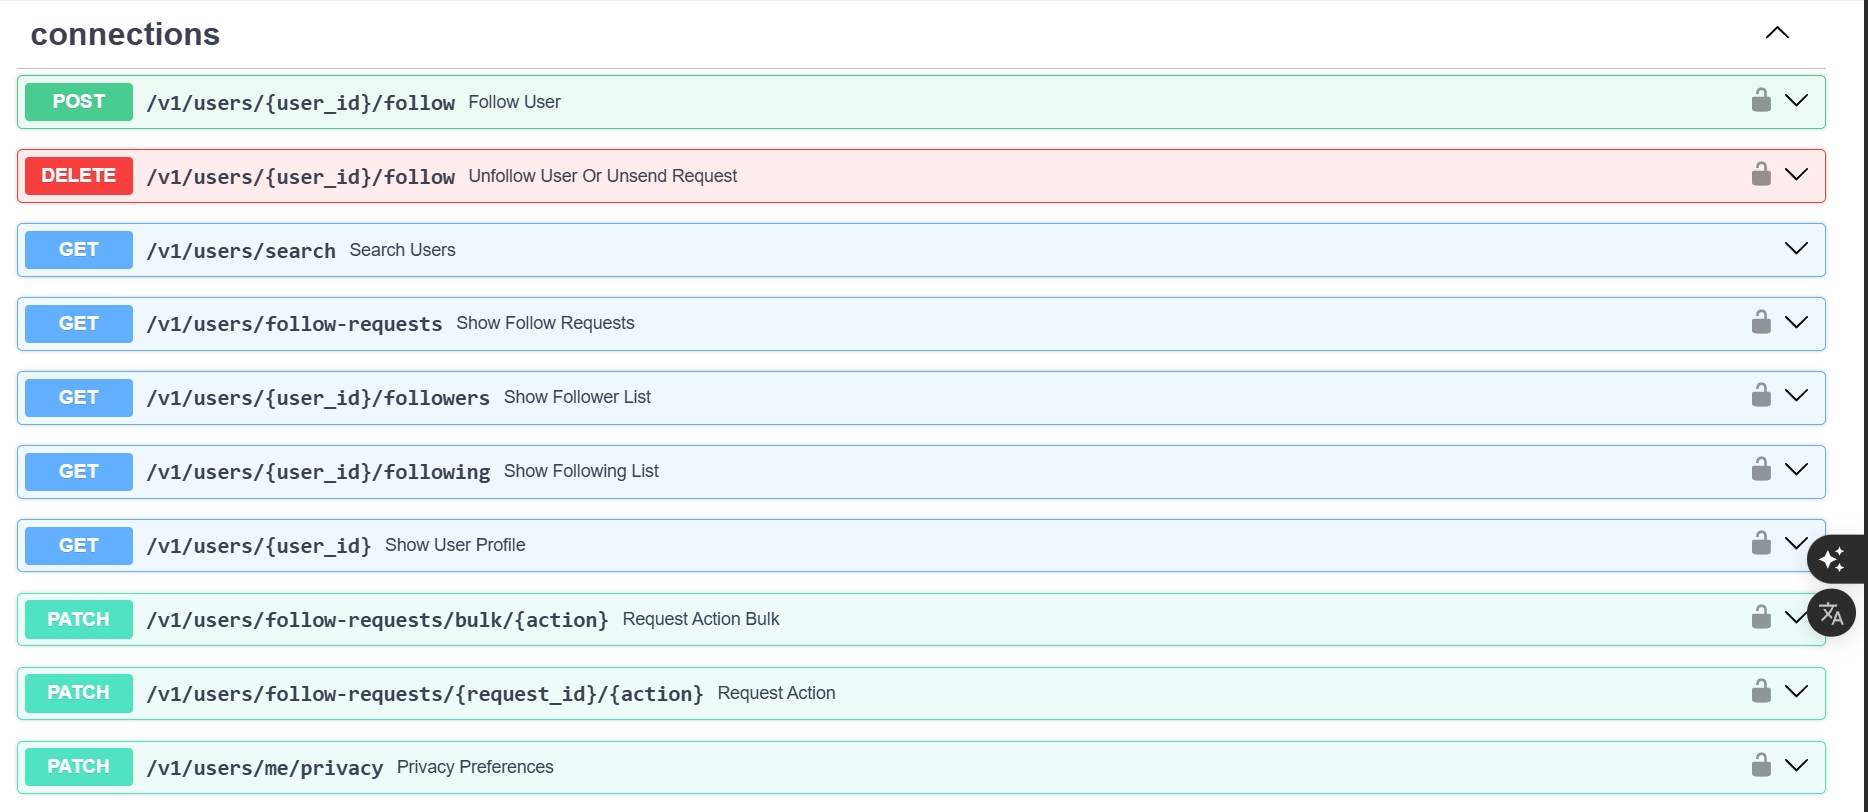
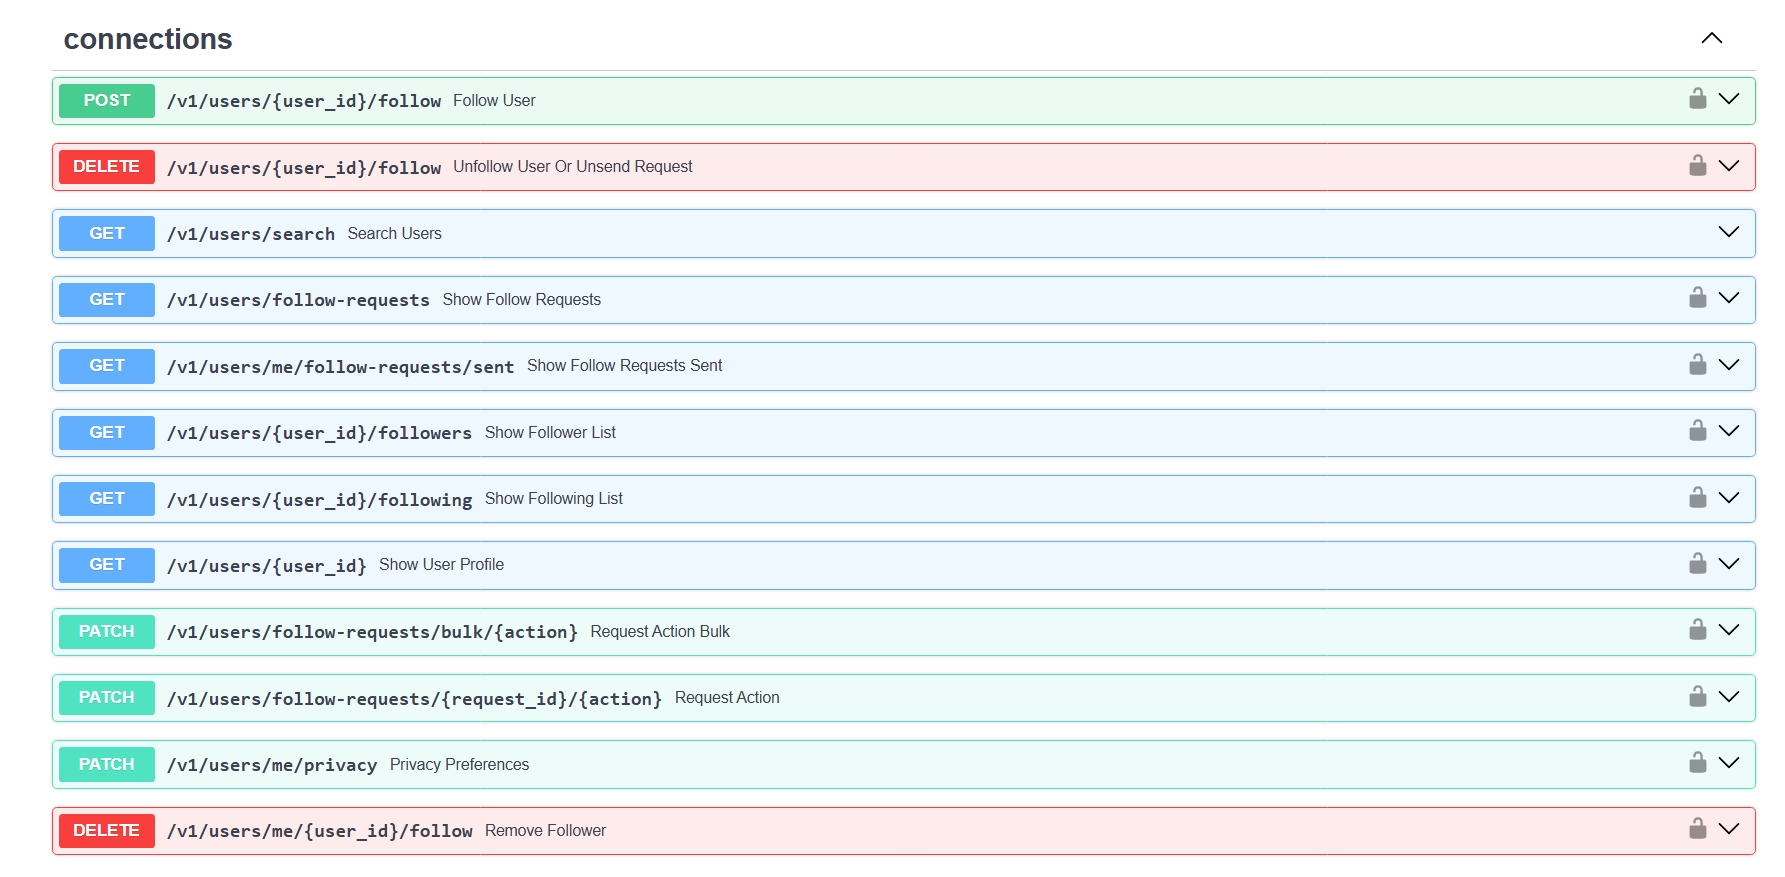
feat: add remove follower endpoint

Changed region(s): [[0.0, 0.0, 1.0, 1.0]]

diff --git a/src/users/service.py b/src/users/service.py
@@ -276,7 +276,7 @@ class UserService:
                     detail="Please verify your email to use this feature.",
                  )
             can_view_content = True
-            relationship_status = "self"
+            relationship_status = RelationshipStatus.self
                 
         else:
             is_following = await db.scalar(
@@ -451,6 +451,30 @@ class UserService:
             return
 
         await db.delete(existing_follow)
+        await db.commit()
+        return
+
+    async def remove_follower_by_user_id(
+        self, user_id: int, db: AsyncSession, current_user: User
+    ):
+
+        existing_follower = await db.scalar(
+            select(Follow)
+            .join(Follow.following)
+            .where(
+                Follow.following_id == current_user.id,
+                Follow.follower_id == user_id,
+                User.is_deleted.is_(False),
+            )
+        )
+
+        if not existing_follower:
+            raise HTTPException(
+                status_code=status.HTTP_404_NOT_FOUND,
+                detail="User not following you",
+            )
+
+        await db.delete(existing_follower)
         await db.commit()
         return
 

diff --git a/src/users/router.py b/src/users/router.py
@@ -65,7 +65,7 @@ async def show_follow_requests(
         search, limit, page, sort_by, sort_order, db, current_user
     )
 @router.get(
-    "/follow-requests/sent",
+    "/me/follow-requests/sent",
     response_model=PaginatedFollowRequestResponse,
     status_code=status.HTTP_200_OK,
 )
@@ -178,3 +178,11 @@ async def unfollow_user_or_unsend_request(
     current_user: User = Depends(get_current_verified_user),
 ):
     return await user_service.unfollow_user_or_unsend_request(user_id, db, current_user)
+
+@router.delete("/me/{user_id}/follow", status_code=status.HTTP_204_NO_CONTENT)
+async def remove_follower(
+    user_id: int,
+    db: AsyncSession = Depends(get_db),
+    current_user: User = Depends(get_current_verified_user),
+):
+    return await user_service.remove_follower_by_user_id(user_id, db, current_user)
